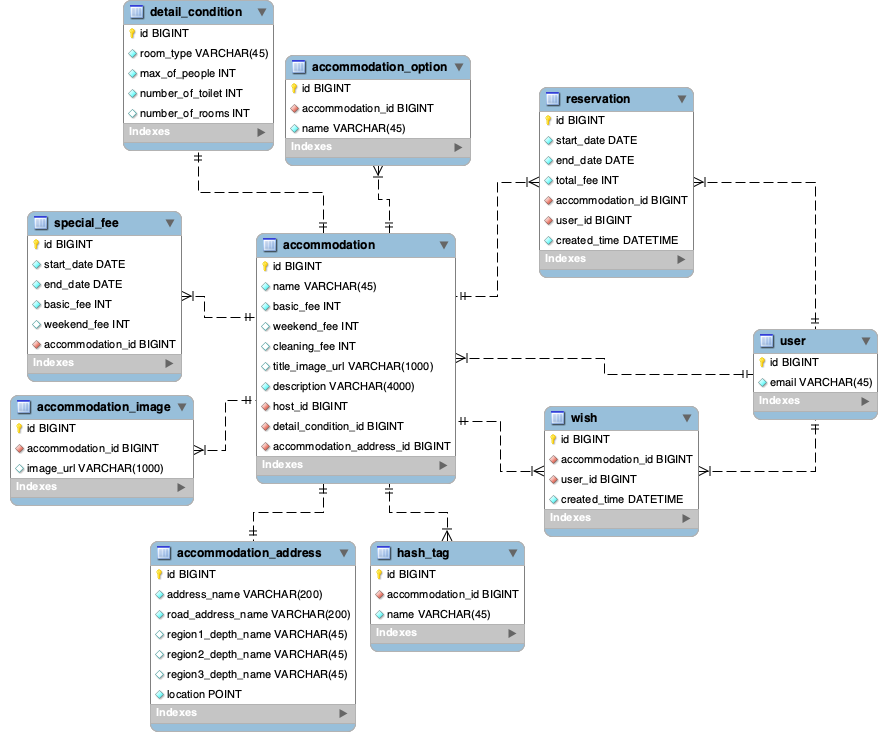
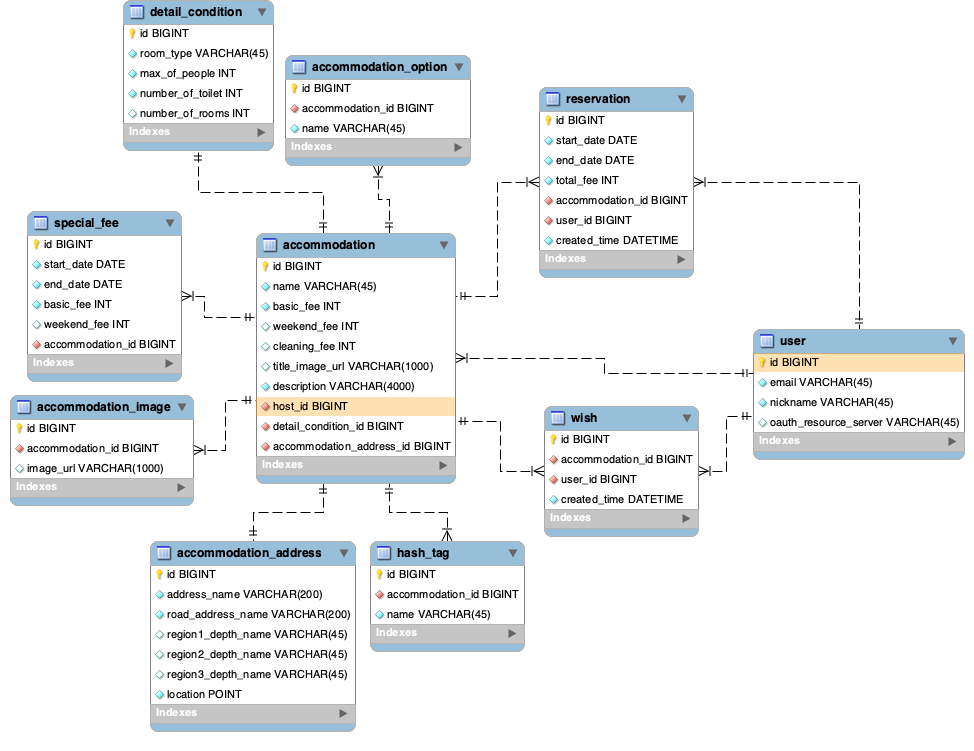
[#1] feat: Add nickname,oauth_resource_server columns into user table

diff --git a/BE/airbnb/src/main/java/team14/airbnb/domain/aggregate/user/User.java b/BE/airbnb/src/main/java/team14/airbnb/domain/aggregate/user/User.java
@@ -25,13 +25,16 @@ public class User {
 
     private String email;
 
+    private String nickname;
+
     @OneToMany(cascade = CascadeType.ALL)
     @JoinColumn(name = "user_id", nullable = false)
     @OrderBy("createdTime desc")
     private List<Wish> wishes = new ArrayList<>();
 
-    public User(String email) {
+    public User(String email, String nickname) {
         this.email = email;
+        this.nickname = nickname;
     }
 
     public void addWish(Accommodation accommodation) {
